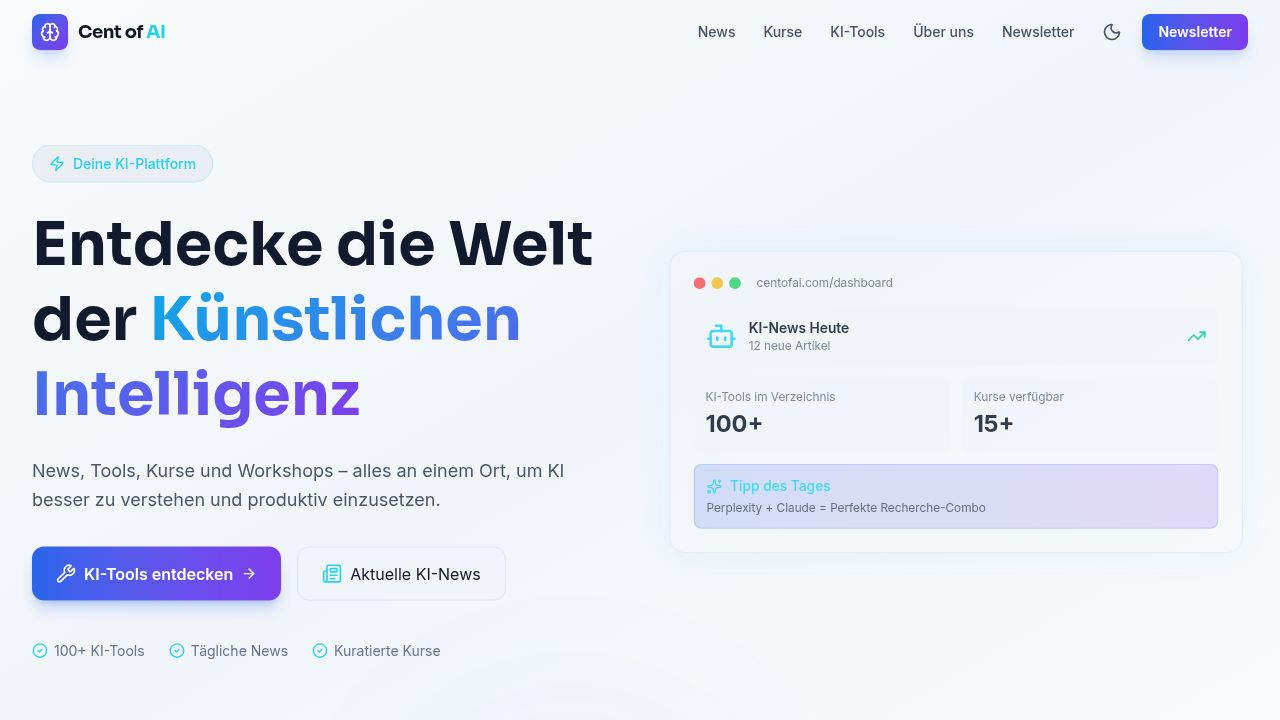
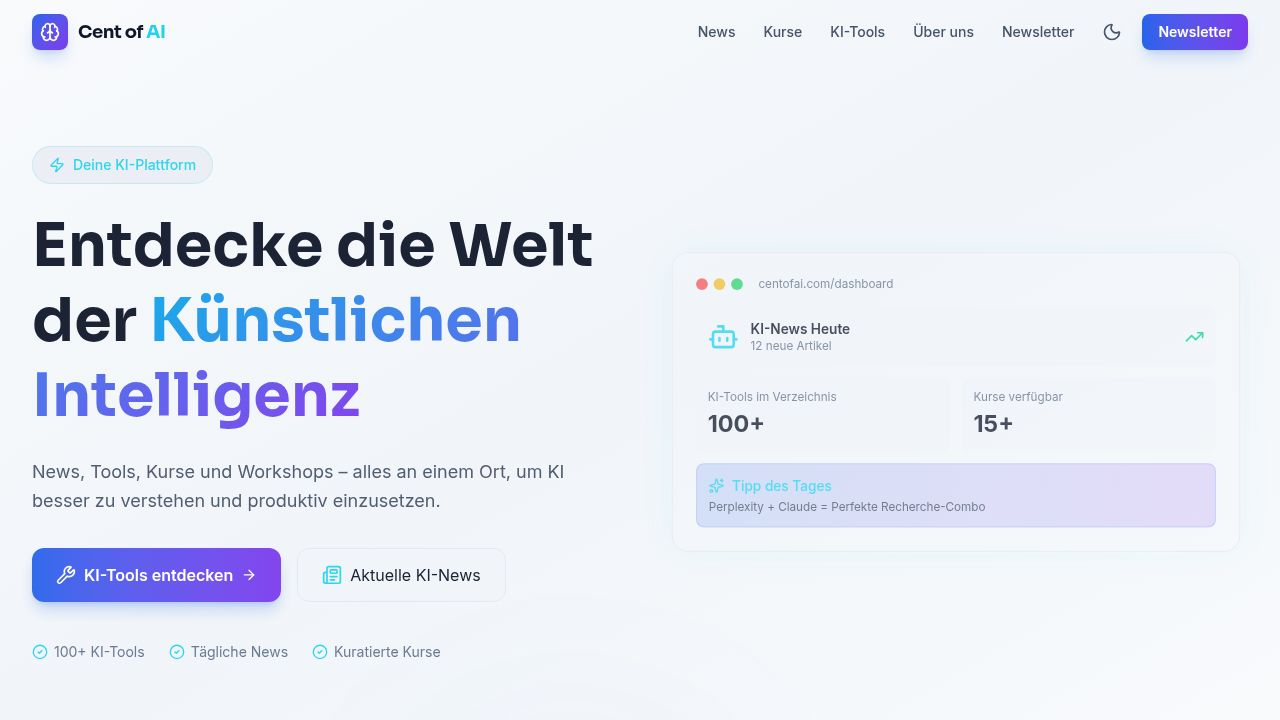
Update company name to CentofAi across the entire website
Update the company name from "Cent of AI" to "CentofAi" in the browser tab title, Open Graph meta tags, Twitter meta tags, the About section heading and description, and the footer copyright text.

Replit-Commit-Author: Agent
Replit-Commit-Session-Id: 20b1a96d-4c82-47a9-8af5-b2a41a52de9a
Replit-Commit-Checkpoint-Type: full_checkpoint
Replit-Commit-Event-Id: 1a010822-1777-438e-907e-0262fc3eaf17
Replit-Commit-Screenshot-Url: https://storage.googleapis.com/screenshot-production-us-central1/e0c3fa18-4272-4629-bb89-1b5a1ae1f3e2/20b1a96d-4c82-47a9-8af5-b2a41a52de9a/5BlG9Ig
Replit-Helium-Checkpoint-Created: true

diff --git a/artifacts/centofai/index.html b/artifacts/centofai/index.html
@@ -3,17 +3,17 @@
   <head>
     <meta charset="UTF-8" />
     <meta name="viewport" content="width=device-width, initial-scale=1.0" />
-    <title>Cent of AI — KI-News, Tools, Kurse & Workshops</title>
+    <title>CentofAi — KI-News, Tools, Kurse & Workshops</title>
     <meta name="description" content="Entdecke die Welt der Künstlichen Intelligenz. News, Tools, Kurse und Workshops – alles an einem Ort, um KI besser zu verstehen und produktiv einzusetzen." />
     <meta name="robots" content="index, follow" />
     <link rel="canonical" href="https://www.centofai.com/" />
-    <meta property="og:title" content="Cent of AI — KI-News, Tools, Kurse & Workshops" />
+    <meta property="og:title" content="CentofAi — KI-News, Tools, Kurse & Workshops" />
     <meta property="og:description" content="Die zentrale Plattform für Künstliche Intelligenz. Aktuelle KI-News, Tool-Verzeichnis, Kurse und Workshops." />
     <meta property="og:type" content="website" />
     <meta property="og:image" content="/opengraph.jpg" />
     <meta property="og:url" content="https://www.centofai.com/" />
     <meta name="twitter:card" content="summary_large_image" />
-    <meta name="twitter:title" content="Cent of AI — KI-News, Tools, Kurse & Workshops" />
+    <meta name="twitter:title" content="CentofAi — KI-News, Tools, Kurse & Workshops" />
     <meta name="twitter:description" content="Die zentrale Plattform für Künstliche Intelligenz." />
     <meta name="twitter:image" content="/opengraph.jpg" />
     <link rel="icon" type="image/svg+xml" href="/favicon.svg" />

diff --git a/artifacts/centofai/src/Centofai.tsx b/artifacts/centofai/src/Centofai.tsx
@@ -569,10 +569,10 @@ function AboutSection() {
             <span className="text-xs text-[#22D3EE] font-medium">Mission</span>
           </div>
           <h2 className="font-display text-3xl sm:text-4xl font-bold text-heading mb-6">
-            Über <span className="gradient-text">Cent of AI</span>
+            Über <span className="gradient-text">CentofAi</span>
           </h2>
           <p className="text-lg text-caption leading-relaxed max-w-2xl mx-auto">
-            Cent of AI ist eine Plattform, die Menschen hilft, Künstliche Intelligenz besser zu verstehen,
+            CentofAi ist eine Plattform, die Menschen hilft, Künstliche Intelligenz besser zu verstehen,
             passende Tools zu finden und KI sinnvoll im Alltag, Beruf und Business einzusetzen.
             Wir kuratieren die besten Ressourcen, damit du den Überblick behältst.
           </p>
@@ -639,7 +639,7 @@ function Footer() {
           </div>
         </div>
         <div className="pt-8 border-t border-theme flex flex-col sm:flex-row items-center justify-between gap-4">
-          <p className="text-xs text-label">© {new Date().getFullYear()} Cent of AI. Alle Rechte vorbehalten.</p>
+          <p className="text-xs text-label">© {new Date().getFullYear()} CentofAi. Alle Rechte vorbehalten.</p>
           <p className="text-xs text-label">Alle Links zu externen Tools und Kursen sind Affiliate-freie Empfehlungen.</p>
         </div>
       </div>